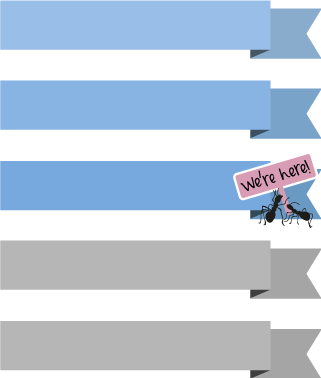
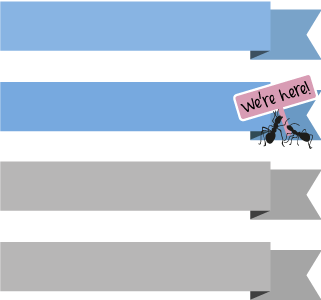
remove internal test, final styling fixes
Former-commit-id: 050962f5b431f1fa2521d5259ef8f21fdbb9c571

diff --git a/src/roadmap.html b/src/roadmap.html
@@ -2,7 +2,7 @@
       title = "MaidSafe - Project SAFE Roadmap",
        description = "This is the a high level roadmap going forward.",
       keywords = "Project SAFE Roadmap",
-      includeBrowserDetect = "False",
+      includeBrowserDetect = True,
       includeHomeBanners = "False",
       includeToggle = "False",
       includeTwitterCard = True,
@@ -50,9 +50,6 @@
             <p>Currently we are working through Testnet 2.</br>    
             View the various stages of development in more detail... </p>  
             <div class="roadmap container">
-              <div id="testnet0" class="roadmap-stage">
-                <h2>Internal Test Network</h2>
-              </div>
               <div id="testnet1" class="roadmap-stage">
                 <h2>Test Network 1</h2>
               </div>
@@ -83,7 +80,7 @@
             </div>
             <div class="testnet2 phase-group hidden container">
               <div class="bullet start active"><div class="bullet-icon"></div><h2>Test Network 2</h2></div>
-              <div class="bullet progress"><div class="bullet-icon"></div><h2>Reworking of all vault accounts to reduce account transfer, memory requirements and ability to handle much higher churn levels</h2></div>
+              <div class="bullet progress long1"><div class="bullet-icon"></div><h2>Reworking of all vault accounts to reduce account transfer, memory requirements and ability to handle much higher churn levels</h2></div>
               <div class="bullet progress"><div class="bullet-icon"></div><h2>Provision of cross platform Virtual File System and improved user API</h2></div>
               <div class="bullet progress"><div class="bullet-icon"></div><h2>Commencement of JSON friendly Network File System interface</h2></div>
               <div class="bullet progress"><div class="bullet-icon"></div><h2>Introduction of public name registration</h2></div>
@@ -94,7 +91,7 @@
               <div class="bullet progress"><div class="bullet-icon"></div><h2>Account transfer simplification to handle higher churn levels</h2></div>
               <div class="bullet progress"><div class="bullet-icon"></div><h2>Refactor of routing to include secure data dispersal algorithms</h2></div>
               <div class="bullet progress"><div class="bullet-icon"></div><h2>Routing to handle data synchronisation for vault and user level messages</h2></div>
-              <div class="bullet progress"><div class="bullet-icon"></div><h2>Advances in Routing group and quorum for security levels well beyond network size and make sybil attacks inordinately difficult</h2></div>
+              <div class="bullet progress long2"><div class="bullet-icon"></div><h2>Advances in Routing group and quorum for security levels well beyond network size and make sybil attacks inordinately difficult</h2></div>
               <div class="bullet progress"><div class="bullet-icon"></div><h2>Refactor code for quid pro quo working making way for safecoin</h2></div>
               <div class="bullet progress"><div class="bullet-icon"></div><h2>Enhance Network Visualiser to enable real time debugging and tracking of test messages</h2></div>
               <div class="bullet progress"><div class="bullet-icon"></div><h2>Initial apps - Desktop Drive, Messaging</h2></div>

diff --git a/roadmap.html b/roadmap.html
@@ -38,6 +38,9 @@
   
  
 
+  <!-- SureFile Download browser detect --> 
+   <script type="text/javascript" src="js/browserdetect.js"></script>
+
   
   <!-- Web font -->
   <script type="text/javascript">
@@ -210,9 +213,6 @@
             <p>Currently we are working through Testnet 2.</br>    
             View the various stages of development in more detail... </p>  
             <div class="roadmap container">
-              <div id="testnet0" class="roadmap-stage">
-                <h2>Internal Test Network</h2>
-              </div>
               <div id="testnet1" class="roadmap-stage">
                 <h2>Test Network 1</h2>
               </div>
@@ -243,7 +243,7 @@
             </div>
             <div class="testnet2 phase-group hidden container">
               <div class="bullet start active"><div class="bullet-icon"></div><h2>Test Network 2</h2></div>
-              <div class="bullet progress"><div class="bullet-icon"></div><h2>Reworking of all vault accounts to reduce account transfer, memory requirements and ability to handle much higher churn levels</h2></div>
+              <div class="bullet progress long1"><div class="bullet-icon"></div><h2>Reworking of all vault accounts to reduce account transfer, memory requirements and ability to handle much higher churn levels</h2></div>
               <div class="bullet progress"><div class="bullet-icon"></div><h2>Provision of cross platform Virtual File System and improved user API</h2></div>
               <div class="bullet progress"><div class="bullet-icon"></div><h2>Commencement of JSON friendly Network File System interface</h2></div>
               <div class="bullet progress"><div class="bullet-icon"></div><h2>Introduction of public name registration</h2></div>
@@ -254,7 +254,7 @@
               <div class="bullet progress"><div class="bullet-icon"></div><h2>Account transfer simplification to handle higher churn levels</h2></div>
               <div class="bullet progress"><div class="bullet-icon"></div><h2>Refactor of routing to include secure data dispersal algorithms</h2></div>
               <div class="bullet progress"><div class="bullet-icon"></div><h2>Routing to handle data synchronisation for vault and user level messages</h2></div>
-              <div class="bullet progress"><div class="bullet-icon"></div><h2>Advances in Routing group and quorum for security levels well beyond network size and make sybil attacks inordinately difficult</h2></div>
+              <div class="bullet progress long2"><div class="bullet-icon"></div><h2>Advances in Routing group and quorum for security levels well beyond network size and make sybil attacks inordinately difficult</h2></div>
               <div class="bullet progress"><div class="bullet-icon"></div><h2>Refactor code for quid pro quo working making way for safecoin</h2></div>
               <div class="bullet progress"><div class="bullet-icon"></div><h2>Enhance Network Visualiser to enable real time debugging and tracking of test messages</h2></div>
               <div class="bullet progress"><div class="bullet-icon"></div><h2>Initial apps - Desktop Drive, Messaging</h2></div>

diff --git a/css/styles.css b/css/styles.css
@@ -1431,7 +1431,7 @@ div.roadmap {
 	background-image: url("../images/roadmap/roadmap.png");
 	background-repeat: no-repeat;
 	background-size: contain;
-	width: 700px;
+	width: 540px;
 	height: 380px;
 	position: relative;
 }
@@ -1451,7 +1451,7 @@ div.roadmap {
 	color: inherit;
 }
 
-#roadmap #viewer > p{font-size: 18px;}
+//#roadmap #viewer > p{font-size: 1px;}
 #roadmap #viewer > h1{margin:0 0 10px 0;}
 
 .roadmap-stage:hover {
@@ -1460,11 +1460,10 @@ div.roadmap {
 	cursor: hand; 
 }
 
-#testnet0{top:25px;left: 15px;}
-#testnet1{top:265px;left: 153px;}
-#testnet2{top:35px;left: 290px;}
-#testnet3{top:265px;left: 430px;}
-#betalaunch{top:35px;left: 565px;}
+#testnet1{top:35px;left: 15px;}
+#testnet2{top:265px;left: 147px;}
+#testnet3{top:35px;left: 277px;}
+#betalaunch{top:265px;left: 407px;}
 
 .bullet{
 	height:50px;
@@ -3528,28 +3527,10 @@ a.gpl-license, a.commercial-license, a.contributor-agreement {
 
 /*********** Roadmap Page Styles **************/
 
-div.roadmap{
-	width:500px;
-}
-
-.roadmap-stage {
-	width:90px;
-	height:90px;
-}
-
-.roadmap-stage h2{
-	font-size: 18px;
-}
-
-.roadmap-stage p{
-	margin-top: 0px;
-}
-
-#testnet0{top:20px;left: 10px;}
-#testnet1{top:185px;left: 110px;}
-#testnet2{top:30px;left: 205px;}
-#testnet3{top:185px;left: 305px;}
-#betalaunch{top:30px;left: 400px;}
+#testnet1{top:35px;left: 15px;}
+#testnet2{top:265px;left: 147px;}
+#testnet3{top:35px;left: 277px;}
+#betalaunch{top:265px;left: 407px;}
 
 .bullet h2{
 	font-size: 14px;
@@ -4387,12 +4368,12 @@ section .grid-4 {
 
 /*********** Roadmap Page Styles **************/
 
-#roadmap #viewer {width:96%;}
+#roadmap #viewer {width:98%;}
 
 div.roadmap{
-	width:500px;
+	width:540px;
 }
-
+/*
 .roadmap-stage {
 	width:90px;
 	height:90px;
@@ -4400,17 +4381,18 @@ div.roadmap{
 
 .roadmap-stage h2{
 	font-size: 18px;
-}
+}*/
 
 .roadmap-stage p{
 	margin-top: 0px;
 }
 
-#testnet0{top:20px;left: 10px;}
-#testnet1{top:185px;left: 110px;}
-#testnet2{top:30px;left: 205px;}
-#testnet3{top:185px;left: 305px;}
-#betalaunch{top:30px;left: 400px;}
+
+#testnet1{top:35px;left: 15px;}
+#testnet2{top:265px;left: 147px;}
+#testnet3{top:35px;left: 277px;}
+#betalaunch{top:265px;left: 407px;}
+
 .bullet{height:40px;}
 .bullet-icon {
 	width: 42px;
@@ -5340,9 +5322,7 @@ a.moreinfo div {
 
 /*********** Roadmap Page Styles **************/
 
-//#roadmap #viewer {width:96%;}
-
-#roadmap #viewer > p{font-size: 14px;}
+#roadmap #viewer {width:96%;}
 
 div.roadmap{
 	width:321px;
@@ -5367,11 +5347,11 @@ div.roadmap{
 	margin: 0px;
 }
 
-#testnet0{top:8px;left:20px;}
-#testnet1{top:90px;left:50px;}
-#testnet2{top:170px;left:50px;}
-#testnet3{top:250px;left:50px;}
-#betalaunch{top:330px;left:60px;}
+#testnet1{top:10px;left:50px;}
+#testnet2{top:90px;left:50px;}
+#testnet3{top:170px;left:50px;}
+#betalaunch{top:250px;left:60px;}
+
 .bullet{max-height: 50px;}
 
 .bullet-icon {

diff --git a/js/roadmap.js b/js/roadmap.js
@@ -1,5 +1,4 @@
 var maind="<p>Currently we are working through Testnet 2.</br>View the various stages of development in more detail... </p>";
-var test0d="<p>See what we completed in our internal testing stage before starting the global test network.</p>";
 var test1d="<p>See what we completed in Testnet 1.</p>";
 var test2d="<p>Track the progress of Testnet 2's main objectives below. </br> For a more technical analysis, see our <a href='https://maidsafe.atlassian.net' target='_blank'>Jira Roadmap</a>.";
 var test3d="<p>See what we have planned for Testnet 3.</p>";
@@ -7,7 +6,6 @@ var launchd="<p>The work doesn't stop at Beta. See what we have planned for laun
 
 $(document).ready(function () {
 	$(".backwards").click(function(){displayPhase(this, "Project SAFE Roadmap", maind, "roadmap", "phase-group");});
-	$("#testnet0").click(function(){displayPhase(this, "Internal Testnet Overview", test0d, "testnet0", "roadmap");});
 	$("#testnet1").click(function(){displayPhase(this, "Testnet 1 Overview", test1d, "testnet1", "roadmap");});
 	$("#testnet2").click(function(){displayPhase(this, "Testnet 2 Overview", test2d, "testnet2", "roadmap");});
 	$("#testnet3").click(function(){displayPhase(this, "Testnet 3 Overview", test3d, "testnet3", "roadmap");});
@@ -22,7 +20,16 @@ function displayPhase (obj, title, desc, show, hide){
 	$("div."+hide).addClass("hidden");
 	$("div."+show).removeClass("hidden");
 	$("#viewer").get(0).scrollIntoView();
+	if ($("#viewer").width()<500 && show=="testnet2"){
+		$(".phase-group .long1 h2").replaceWith("<h2>Reworking vault accounts to reduce account transfer, memory requirements and ability to handle much higher churn</h2>");
+		$(".phase-group .long2 h2").replaceWith("<h2>Advances in Routing group and quorum for security levels well beyond network size and increased sybil attack defence</h2>");
+	}
 }
+
+// boolean smallWidth(){
+// 	if  return true;
+// 	else return false;
+// }
 	
 // function display(obj, name, bio, twitter, wp){
 // 	if (!$(obj).hasClass("icon-active")){
